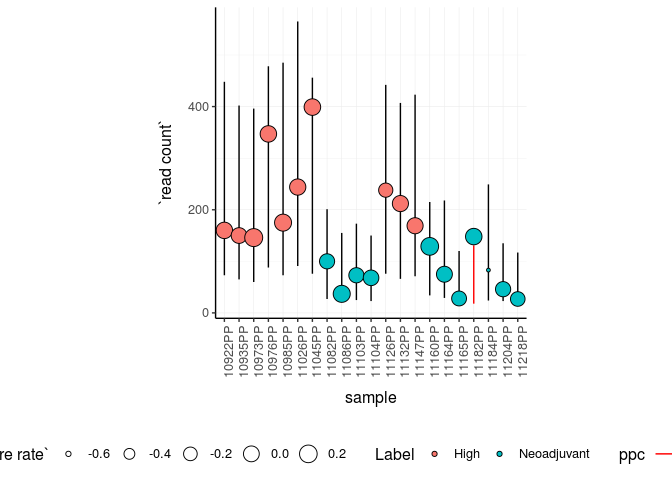
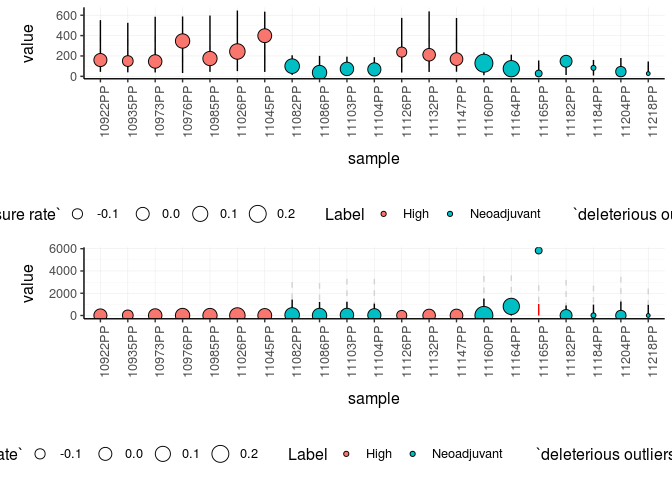
UPDATE DEPENDENCIES AND readme

diff --git a/README.md b/README.md
@@ -14,14 +14,14 @@ library(tidyverse)
     ##   c.quosures     rlang
     ##   print.quosures rlang
 
-    ## ── Attaching packages ─────────────────────────────────────────────────────────────────────────────────────────────────────────────────────── tidyverse 1.2.1 ──
+    ## ── Attaching packages ────────────────────────────────────────────────────────────────────────────────────────────────────────────────────────────────────────────────────────────────────────────────────────────────────── tidyverse 1.2.1 ──
 
     ## ✔ ggplot2 3.1.1     ✔ purrr   0.3.2
     ## ✔ tibble  2.1.1     ✔ dplyr   0.8.1
     ## ✔ tidyr   0.8.3     ✔ stringr 1.4.0
     ## ✔ readr   1.3.1     ✔ forcats 0.4.0
 
-    ## ── Conflicts ────────────────────────────────────────────────────────────────────────────────────────────────────────────────────────── tidyverse_conflicts() ──
+    ## ── Conflicts ───────────────────────────────────────────────────────────────────────────────────────────────────────────────────────────────────────────────────────────────────────────────────────────────────────── tidyverse_conflicts() ──
     ## ✖ dplyr::filter() masks stats::filter()
     ## ✖ dplyr::lag()    masks stats::lag()
 
@@ -38,151 +38,52 @@ annotated counts
 
 ``` r
 counts.ppc = 
-    counts %>% 
-        mutate(is_significant = FDR < 0.05) %>% 
-        ppc_seq(
-            formula = ~ Label + W, 
-            significance_column = "PValue", 
-            do_check_column = "is_significant", 
-            value_column = "value"
-        )
+    ppcSeq::counts %>%
+    mutate(is_significant = FDR < 0.05) %>%
+    ppc_seq(
+        formula = ~ Label,
+        significance_column = PValue,
+        do_check_column = is_significant,
+        value_column = value
+    )
 ```
 
-    ## [1] "2019-07-09 10:16:21 AEST"
-    ## Chain 1: ------------------------------------------------------------
-    ## Chain 1: EXPERIMENTAL ALGORITHM:
-    ## Chain 1:   This procedure has not been thoroughly tested and may be unstable
-    ## Chain 1:   or buggy. The interface is subject to change.
-    ## Chain 1: ------------------------------------------------------------
-    ## Chain 1: 
-    ## Chain 1: 
-    ## Chain 1: 
-    ## Chain 1: Gradient evaluation took 0.03 seconds
-    ## Chain 1: 1000 transitions using 10 leapfrog steps per transition would take 300 seconds.
-    ## Chain 1: Adjust your expectations accordingly!
-    ## Chain 1: 
-    ## Chain 1: 
-    ## Chain 1: Begin eta adaptation.
-    ## Chain 1: Iteration:   1 / 250 [  0%]  (Adaptation)
-    ## Chain 1: Iteration:  50 / 250 [ 20%]  (Adaptation)
-    ## Chain 1: Iteration: 100 / 250 [ 40%]  (Adaptation)
-    ## Chain 1: Iteration: 150 / 250 [ 60%]  (Adaptation)
-    ## Chain 1: Iteration: 200 / 250 [ 80%]  (Adaptation)
-    ## Chain 1: Iteration: 250 / 250 [100%]  (Adaptation)
-    ## Chain 1: Success! Found best value [eta = 0.1].
-    ## Chain 1: 
-    ## Chain 1: Begin stochastic gradient ascent.
-    ## Chain 1:   iter             ELBO   delta_ELBO_mean   delta_ELBO_med   notes 
-    ## Chain 1:    100     -8267961.123             1.000            1.000
-    ## Chain 1:    200     -3023712.844             1.367            1.734
-    ## Chain 1:    300     -1500125.240             1.250            1.016
-    ## Chain 1:    400      -803505.836             1.154            1.016
-    ## Chain 1:    500      -499179.933             1.045            1.000
-    ## Chain 1:    600      -356529.160             0.938            1.000
-    ## Chain 1:    700      -289907.868             0.837            0.867
-    ## Chain 1:    800      -254354.664             0.750            0.867
-    ## Chain 1:    900      -235398.090             0.675            0.610
-    ## Chain 1:   1000      -224403.662             0.613            0.610
-    ## Chain 1:   1100      -216862.102             0.560            0.400   MAY BE DIVERGING... INSPECT ELBO
-    ## Chain 1:   1200      -211215.770             0.516            0.400   MAY BE DIVERGING... INSPECT ELBO
-    ## Chain 1:   1300      -206679.724             0.478            0.230
-    ## Chain 1:   1400      -202875.636             0.445            0.230
-    ## Chain 1:   1500      -199065.830             0.416            0.140
-    ## Chain 1:   1600      -195912.544             0.391            0.140
-    ## Chain 1:   1700      -192762.265             0.369            0.081
-    ## Chain 1:   1800      -189974.874             0.350            0.081
-    ## Chain 1:   1900      -187254.976             0.332            0.049
-    ## Chain 1:   2000      -184644.520             0.316            0.049
-    ## Chain 1:   2100      -182171.919             0.302            0.035
-    ## Chain 1:   2200      -179966.137             0.289            0.035
-    ## Chain 1:   2300      -177892.863             0.277            0.027
-    ## Chain 1:   2400      -175870.507             0.265            0.027
-    ## Chain 1:   2500      -174062.555             0.255            0.022
-    ## Chain 1:   2600      -172287.641             0.246            0.022
-    ## Chain 1:   2700      -170692.779             0.237            0.019
-    ## Chain 1:   2800      -169203.418             0.229            0.019
-    ## Chain 1:   2900      -167779.569             0.221            0.019
-    ## Chain 1:   3000      -166419.294             0.214            0.019
-    ## Chain 1:   3100      -165152.352             0.208            0.016
-    ## Chain 1:   3200      -163954.705             0.201            0.016
-    ## Chain 1:   3300      -162890.884             0.195            0.016
-    ## Chain 1:   3400      -161819.849             0.190            0.016
-    ## Chain 1:   3500      -160842.943             0.185            0.015
-    ## Chain 1:   3600      -159915.668             0.180            0.015
-    ## Chain 1:   3700      -159075.808             0.175            0.015
-    ## Chain 1:   3800      -158270.676             0.170            0.015
-    ## Chain 1:   3900      -157498.352             0.166            0.014
-    ## Chain 1:   4000      -156775.570             0.162            0.014
-    ## Chain 1:   4100      -156111.651             0.158            0.014
-    ## Chain 1:   4200      -155453.624             0.155            0.014
-    ## Chain 1:   4300      -154880.171             0.151            0.012
-    ## Chain 1:   4400      -154298.739             0.148            0.012
-    ## Chain 1:   4500      -153761.467             0.145            0.012
-    ## Chain 1:   4600      -153260.332             0.142            0.012
-    ## Chain 1:   4700      -152789.857             0.139            0.011
-    ## Chain 1:   4800      -152333.971             0.136            0.011
-    ## Chain 1:   4900      -151934.542             0.133            0.010
-    ## Chain 1:   5000      -151530.257             0.130            0.010
-    ## Chain 1:   5100      -151132.324             0.110            0.010
-    ## Chain 1:   5200      -150794.302             0.076            0.009
-    ## Chain 1:   5300      -150468.407             0.056            0.009
-    ## Chain 1:   5400      -150141.596             0.038            0.008
-    ## Chain 1:   5500      -149856.513             0.026            0.008
-    ## Chain 1:   5600      -149596.979             0.018            0.008
-    ## Chain 1:   5700      -149314.856             0.014            0.007
-    ## Chain 1:   5800      -149069.269             0.011            0.007
-    ## Chain 1:   5900      -148850.000             0.009            0.007
-    ## Chain 1:   6000      -148619.095             0.008            0.006
-    ## Chain 1:   6100      -148412.309             0.008            0.006
-    ## Chain 1:   6200      -148219.508             0.007            0.005
-    ## Chain 1:   6300      -148049.442             0.007            0.005
-    ## Chain 1:   6400      -147860.524             0.006            0.005   MEDIAN ELBO CONVERGED
-    ## Chain 1: 
-    ## Chain 1: Drawing a sample of size 1000 from the approximate posterior... 
-    ## Chain 1: COMPLETED.
-    ## [1] "2019-07-09 10:18:07 AEST"
+    ## [1] "2019-07-16 17:28:01 AEST"
+    ## [1] "2019-07-16 17:29:47 AEST"
+    ## [1] "2019-07-16 17:29:58 AEST"
+    ## [1] "2019-07-16 17:33:33 AEST"
 
 The new posterior predictive check has been added to the original data
 frame
 
 ``` r
-counts.ppc %>% 
-    distinct(symbol, FDR, `ppc samples failed`, plot)
+counts.ppc 
 ```
 
-    ## Warning: distinct() does not fully support columns of type `list`.
-    ## List elements are compared by reference, see ?distinct for details.
-    ## This affects the following columns:
-    ## - `plot`
-
-    ## # A tibble: 18,801 x 4
-    ##    symbol          FDR `ppc samples failed` plot  
-    ##    <chr>         <dbl>                <int> <list>
-    ##  1 SLC16A12 0.00000274                    1 <gg>  
-    ##  2 CYP1A1   0.000175                      0 <gg>  
-    ##  3 ART3     0.000217                      1 <gg>  
-    ##  4 DIO2     0.000483                      0 <gg>  
-    ##  5 OR51E2   0.000785                      0 <gg>  
-    ##  6 MUC16    0.00657                       0 <gg>  
-    ##  7 CCNA1    0.00734                       1 <gg>  
-    ##  8 LYZ      0.00734                       1 <gg>  
-    ##  9 PPM1H    0.00734                       0 <gg>  
-    ## 10 SUSD5    0.00734                       0 <gg>  
-    ## # … with 18,791 more rows
+    ## # A tibble: 70 x 4
+    ##    symbol   `sample wise data` plot   `tot deleterious outliers`
+    ##    <chr>    <list>             <list>                      <int>
+    ##  1 SLC16A12 <tibble [21 × 11]> <gg>                            0
+    ##  2 CYP1A1   <tibble [21 × 11]> <gg>                            1
+    ##  3 ART3     <tibble [21 × 11]> <gg>                            1
+    ##  4 DIO2     <tibble [21 × 11]> <gg>                            0
+    ##  5 OR51E2   <tibble [21 × 11]> <gg>                            0
+    ##  6 MUC16    <tibble [21 × 11]> <gg>                            0
+    ##  7 CCNA1    <tibble [21 × 11]> <gg>                            0
+    ##  8 LYZ      <tibble [21 × 11]> <gg>                            1
+    ##  9 PPM1H    <tibble [21 × 11]> <gg>                            0
+    ## 10 SUSD5    <tibble [21 × 11]> <gg>                            0
+    ## # … with 60 more rows
 
 The new data frame contains plots for each gene
 
+We can visualise the top five differentially transcribed genes
+
 ``` r
 counts.ppc %>% 
-    distinct(symbol, FDR, `ppc samples failed`, plot) %>%
-    slice(1) %>%
-    pull(plot) %>%
-    `[[` (1)
+    slice(1:2) %>% 
+    pull(plot) %>% 
+    cowplot::plot_grid(plotlist = ., align = "v", ncol = 1, axis="b", rel_widths = 1 )
 ```
-
-    ## Warning: distinct() does not fully support columns of type `list`.
-    ## List elements are compared by reference, see ?distinct for details.
-    ## This affects the following columns:
-    ## - `plot`
 
 ![](README_files/figure-gfm/unnamed-chunk-5-1.png)<!-- -->
